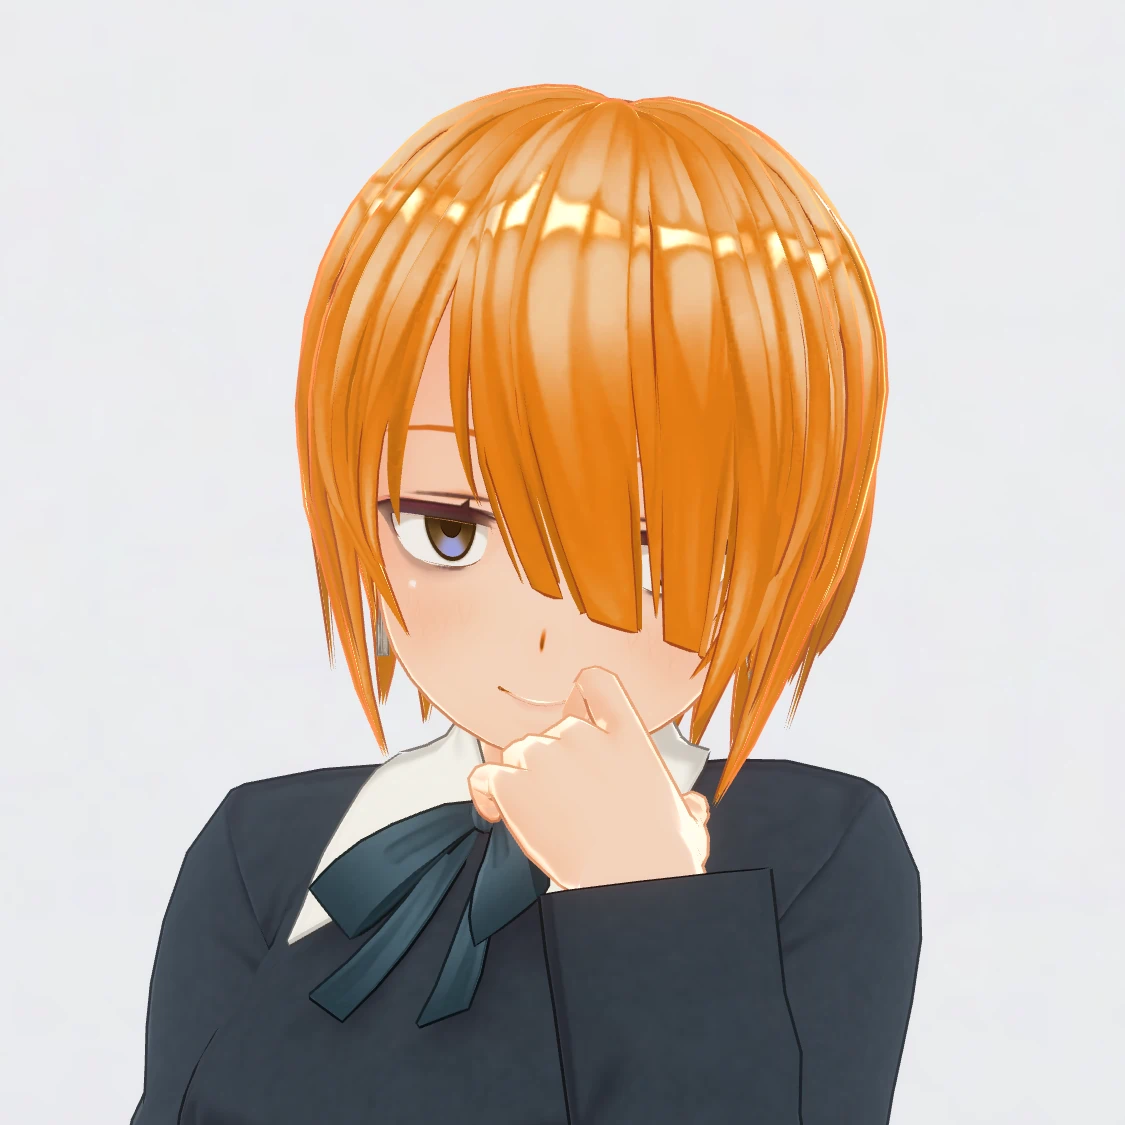
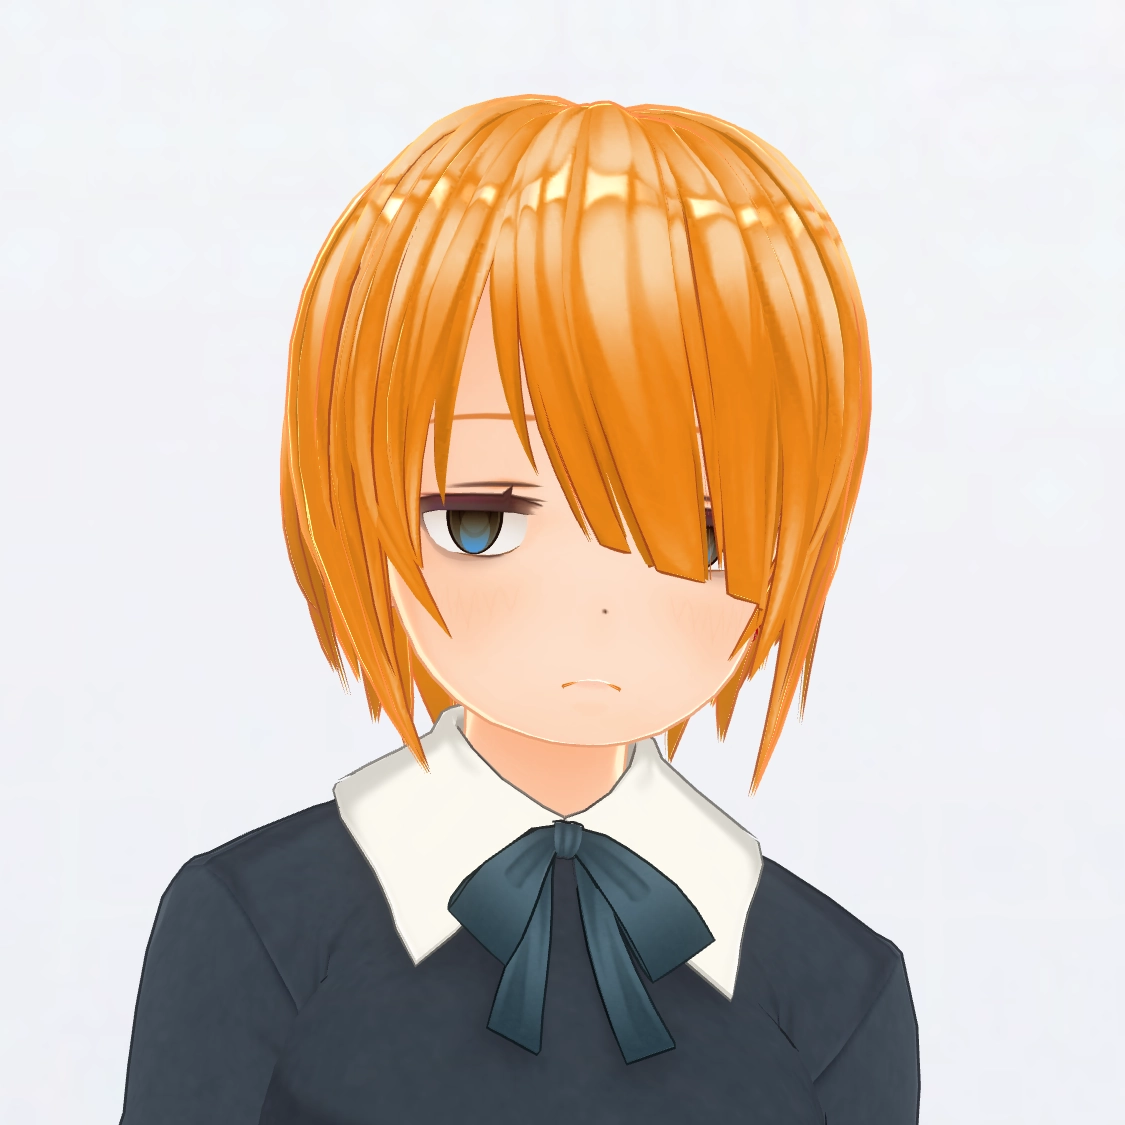
Mikan-chan is now guruguru...
Grumpy little Mikan-chan spins round and round like it's protesting
life's citrusy unfairness!

diff --git a/js/guruguru.js b/js/guruguru.js
@@ -1,0 +1,21 @@
+'use strict';
+
+function
+guruguru(_)
+{
+	const now = new Date();
+	const sec = now.getSeconds() + now.getMilliseconds()/1000;
+	const min = now.getMinutes() + sec/60;
+	const hour = now.getHours()%12 + min/60;
+
+	const ths = sec / 30 * Math.PI;
+	const thm = min / 30 * Math.PI;
+	const thh = hour / 6 * Math.PI;
+
+	const x = Math.cos(ths) + Math.cos(thm) + Math.cos(thh);
+	const y = Math.sin(ths) + Math.sin(thm) + Math.sin(thh);
+	mikanchan_area.style.transform = `rotate(${Math.atan2(y, x)}rad)`;
+
+	window.requestAnimationFrame(guruguru);
+}
+window.requestAnimationFrame(guruguru);

diff --git a/css/index.css b/css/index.css
@@ -68,15 +68,16 @@ main {
 	margin: auto;
 	border-radius: 50%;
 	cursor: default;
-	background: top / cover no-repeat url('/img/mikanchan1.webp');
+	background: center / cover no-repeat url('/img/mikanchan2.webp');
+}
+.mikanchan {
+	opacity: 1;
+	background-image: url('/img/mikanchan1.webp');
+	transition: opacity 200ms linear;
 }
 .mikanchan:hover {
-	cursor: pointer;
-	background-image: url('/img/mikanchan2.webp');
-}
-.mikanchan:active {
-	cursor: grab;
-	background-image: url('/img/mikanchan3.webp');
+	cursor: not-allowed;
+	opacity: 0;
 }
 .center {
 	text-align: center;

diff --git a/index.html b/index.html
@@ -25,13 +25,13 @@
 <link rel="stylesheet" href="/css/mkn.css">
 <link rel="preload" as="image" href="/img/mikanchan1.webp">
 <link rel="preload" as="image" href="/img/mikanchan2.webp">
-<link rel="preload" as="image" href="/img/mikanchan3.webp">
 <link rel="stylesheet" href="/css/index.css">
 <script src="/js/nadenade.js" defer></script>
+<script src="/js/guruguru.js" defer></script>
 </head>
 <body>
 <main>
-<section class="mikanchan_area">
+<section id="mikanchan_area" class="mikanchan_area">
 <div id="mikanchan" class="mikanchan"></div>
 </section>
 <section class="grow">

diff --git a/js/nadenade.js b/js/nadenade.js
@@ -9,17 +9,17 @@
  */
 
 const mikanTab = {
-	'touchstart': 'url("/img/mikanchan2.webp")',
-	'touchmove': 'url("/img/mikanchan3.webp")',
-	'touchend': null,
-	'touchcancel': null,
+	'touchstart': '0',
+	'touchmove': '0',
+	'touchend': '1',
+	'touchcancel': '1',
 };
 
 function
 touchHandler(e)
 {
 	e.preventDefault();
-	mikanchan.style.backgroundImage = mikanTab[e.type] || null;
+	mikanchan.style.opacity = mikanTab[e.type] || '1';
 }
 
 mikanchan.addEventListener('touchstart', touchHandler);
